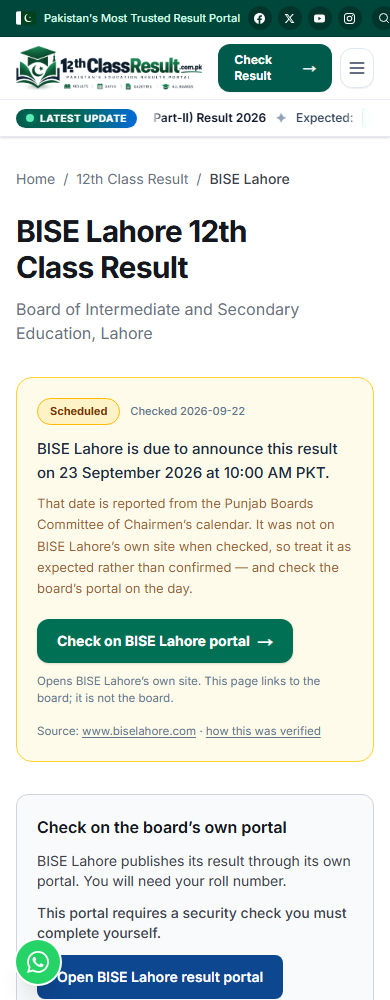
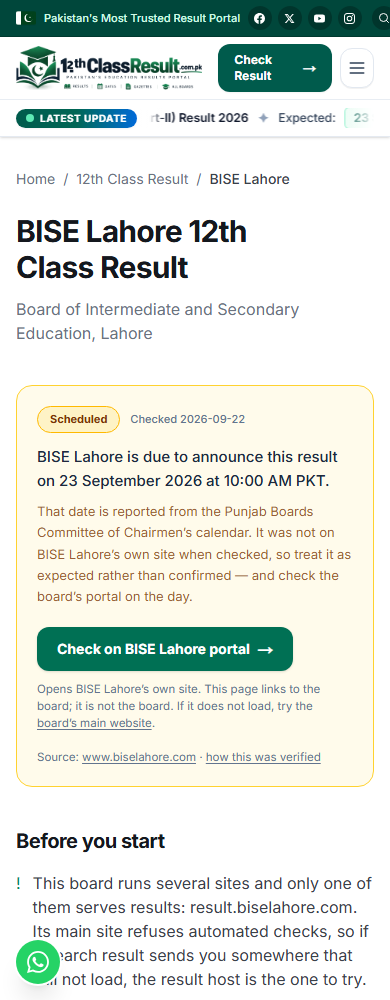
Result day: five Punjab boards announced, four still unconfirmed
The 10:00 schedule ran out and the site was still saying "is due to
announce at 10:00 AM" an hour and a half later.

Checked each board's own portal. Five are serving the session and are now
recorded as announced, each quoting what its own page says:

  Gujranwala   HSSC Part-II (12th Class) — 1st Annual Examination 2026
  Bahawalpur   HIGHER SECONDARY SCHOOL (FIRST ANNUAL) EXAMINATION, 2026
  Rawalpindi   RESULT OF HSSC FIRST ANNUAL EXAMINATION, 2026
  Multan       Part-II / Combined Results — 1st Annual 2026
  DG Khan      Part-II & Combined — 1st Annual Examination 2026

Rawalpindi is recorded with its redirect: results.biserawalpindi.edu.pk
answers 302 to biserwp.edu.pk, and the result URL points where the result
actually is.

`announcedAt` stays null on all five. The committee calendar said 10:00 and
the portals were live when checked at 11:30, but no board published a time
of its own, and copying the calendar's time into a per-board record would
turn a schedule into a board statement.

Lahore, Faisalabad, Sargodha and Sahiwal are not confirmed either way.
Lahore's result host could not be found from its own site and guessing at
one is not verification.

THE CLOCK STILL ANNOUNCES NOTHING. Those four could not stay reading "is
due at 10:00 AM" at half past eleven, and flipping them to announced
because the time arrived would have been worse -- this site asserting what
no board had said. A schedule whose time has passed now says exactly that:
[…]

diff --git a/lib/board/result-status.ts b/lib/board/result-status.ts
@@ -122,17 +122,132 @@ function punjab(
 export const BOARD_RESULT_STATUS: BoardResultStatus[] = [
   // ---- Punjab: nine boards, one common calendar, none declared yet --------
   punjab('bise-lahore', 'https://www.biselahore.com/', 'https://result.biselahore.com/'),
-  punjab('bise-gujranwala', 'https://bisegrw.edu.pk/', 'https://result.bisegrw.edu.pk/Index.php'),
+  {
+    boardId: 'bise-gujranwala',
+    class: 12,
+    year: 2026,
+    session: 'annual-1',
+    announcementStatus: 'announced',
+    /*
+     * `announcedAt` stays null. The committee calendar said 10:00 AM and the
+     * portals were serving the session when checked at 11:30 — but no board
+     * published a time of its own, and copying the calendar’s time into a
+     * per-board record would turn a schedule into a board statement.
+     */
+    dateConfidence: 'official',
+    announcedAt: null,
+    scheduledAt: null,
+    officialHomeUrl: 'https://bisegrw.edu.pk/',
+    officialResultUrl: 'https://result.bisegrw.edu.pk/Index.php',
+    portalSessionObserved: 'HSSC Part-II (12th Class) — 1st Annual Examination 2026',
+    captcha: 'required',
+    nameSearch: 'unverified',
+    lookupMode: 'official-link',
+    sources: ['https://result.bisegrw.edu.pk/Index.php'],
+    lastVerifiedAt: '2026-09-23',
+  },
   punjab(
     'bise-faisalabad',
     'https://www.bisefsd.edu.pk/',
     'https://www.bisefsd.edu.pk/InterResults.aspx',
   ),
-  punjab('bise-multan', 'https://web.bisemultan.edu.pk/', 'https://results.bisemultan.edu.pk/'),
-  punjab('bise-rawalpindi', 'https://www.biserawalpindi.edu.pk/'),
+  {
+    boardId: 'bise-multan',
+    class: 12,
+    year: 2026,
+    session: 'annual-1',
+    announcementStatus: 'announced',
+    /*
+     * `announcedAt` stays null. The committee calendar said 10:00 AM and the
+     * portals were serving the session when checked at 11:30 — but no board
+     * published a time of its own, and copying the calendar’s time into a
+     * per-board record would turn a schedule into a board statement.
+     */
+    dateConfidence: 'official',
+    announcedAt: null,
+    scheduledAt: null,
+    officialHomeUrl: 'https://web.bisemultan.edu.pk/',
+    officialResultUrl: 'https://results.bisemultan.edu.pk/',
+    portalSessionObserved: 'Part-II / Combined Results — 1st Annual 2026',
+    captcha: 'unverified',
+    nameSearch: 'unverified',
+    lookupMode: 'official-link',
+    sources: ['https://results.bisemultan.edu.pk/'],
+    lastVerifiedAt: '2026-09-23',
+  },
+  {
+    boardId: 'bise-rawalpindi',
+    class: 12,
+    year: 2026,
+    session: 'annual-1',
+    announcementStatus: 'announced',
+    /*
+     * `announcedAt` stays null. The committee calendar said 10:00 AM and the
+     * portals were serving the session when checked at 11:30 — but no board
+     * published a time of its own, and copying the calendar’s time into a
+     * per-board record would turn a schedule into a board statement.
+     */
+    dateConfidence: 'official',
+    announcedAt: null,
+    scheduledAt: null,
+    officialHomeUrl: 'https://www.biserawalpindi.edu.pk/',
+    officialResultUrl: 'https://biserwp.edu.pk/',
+    portalSessionObserved: 'RESULT OF HSSC FIRST ANNUAL EXAMINATION, 2026',
+    captcha: 'unverified',
+    nameSearch: 'unverified',
+    lookupMode: 'official-link',
+    sources: ['https://www.biserawalpindi.edu.pk/', 'https://biserwp.edu.pk/'],
+    lastVerifiedAt: '2026-09-23',
+  },
   punjab('bise-sargodha', 'https://bisesargodha.edu.pk/', 'https://results.bisesargodha.edu.pk/'),
-  punjab('bise-bahawalpur', 'https://bisebwp.edu.pk/'),
-  punjab('bise-dg-khan', 'https://www.bisedgkhan.edu.pk/'),
+  {
+    boardId: 'bise-bahawalpur',
+    class: 12,
+    year: 2026,
+    session: 'annual-1',
+    announcementStatus: 'announced',
+    /*
+     * `announcedAt` stays null. The committee calendar said 10:00 AM and the
+     * portals were serving the session when checked at 11:30 — but no board
+     * published a time of its own, and copying the calendar’s time into a
+     * per-board record would turn a schedule into a board statement.
+     */
+    dateConfidence: 'official',
+    announcedAt: null,
+    scheduledAt: null,
+    officialHomeUrl: 'https://bisebwp.edu.pk/',
+    officialResultUrl: 'https://bisebwp.edu.pk/',
+    portalSessionObserved: 'HIGHER SECONDARY SCHOOL (FIRST ANNUAL) EXAMINATION, 2026',
+    captcha: 'required',
+    nameSearch: 'unverified',
+    lookupMode: 'official-link',
+    sources: ['https://bisebwp.edu.pk/'],
+    lastVerifiedAt: '2026-09-23',
+  },
+  {
+    boardId: 'bise-dg-khan',
+    class: 12,
+    year: 2026,
+    session: 'annual-1',
+    announcementStatus: 'announced',
+    /*
+     * `announcedAt` stays null. The committee calendar said 10:00 AM and the
+     * portals were serving the session when checked at 11:30 — but no board
+     * published a time of its own, and copying the calendar’s time into a
+     * per-board record would turn a schedule into a board statement.
+     */
+    dateConfidence: 'official',
+    announcedAt: null,
+    scheduledAt: null,
+    officialHomeUrl: 'https://www.bisedgkhan.edu.pk/',
+    officialResultUrl: 'https://www.bisedgkhan.edu.pk/',
+    portalSessionObserved: 'Part-II & Combined — 1st Annual Examination 2026',
+    captcha: 'unverified',
+    nameSearch: 'unverified',
+    lookupMode: 'official-link',
+    sources: ['https://www.bisedgkhan.edu.pk/'],
+    lastVerifiedAt: '2026-09-23',
+  },
   punjab('bise-sahiwal', 'https://bisesahiwal.edu.pk/', 'https://bisesahiwal.edu.pk/result.php'),
 
   // ---- KPK: already out, and NOT on one shared date ----------------------

diff --git a/components/result/board-status-hero.tsx b/components/result/board-status-hero.tsx
@@ -78,6 +78,22 @@ export function BoardStatusHero({ board }: { board: Board }) {
   const announced = status.announcementStatus === 'announced'
   const scheduled = status.announcementStatus === 'scheduled'
 
+  /*
+   * THE CLOCK ANNOUNCES NOTHING, and this is where that rule earns its keep.
+   *
+   * At 10:00 on 23 September the Punjab schedule ran out. Five boards had
+   * their portals serving the session within the hour; four had not been
+   * confirmed either way. Leaving those four reading "is due to announce at
+   * 10:00 AM" at half past eleven is plainly wrong, and flipping them to
+   * "announced" because the time arrived would be worse — it would be this
+   * site asserting something no board had said.
+   *
+   * So a passed schedule says exactly that: the time has gone, we have not
+   * confirmed it, go and look at the board's own portal.
+   */
+  const scheduleHasPassed =
+    scheduled && status.scheduledAt !== null && new Date(status.scheduledAt) <= new Date()
+
   const tone = announced
     ? 'border-emerald-300 bg-emerald-50'
     : scheduled
@@ -86,9 +102,11 @@ export function BoardStatusHero({ board }: { board: Board }) {
 
   const pill = announced
     ? { text: 'Result announced', cls: 'border-emerald-400 bg-emerald-100 text-emerald-900' }
-    : scheduled
-      ? { text: 'Scheduled', cls: 'border-amber-400 bg-amber-100 text-amber-900' }
-      : { text: 'Not confirmed', cls: 'border-slate-300 bg-slate-100 text-slate-700' }
+    : scheduleHasPassed
+      ? { text: 'Due now — not yet confirmed', cls: 'border-amber-400 bg-amber-100 text-amber-900' }
+      : scheduled
+        ? { text: 'Scheduled', cls: 'border-amber-400 bg-amber-100 text-amber-900' }
+        : { text: 'Not confirmed', cls: 'border-slate-300 bg-slate-100 text-slate-700' }
 
   /*
    * The headline sentence. Written per state rather than templated, because
@@ -99,9 +117,11 @@ export function BoardStatusHero({ board }: { board: Board }) {
     ? status.announcedAt
       ? `${board.shortName} announced this result on ${formatPkt(status.announcedAt)}. It is available now on the board’s own portal.`
       : `${board.shortName} has announced this result. It is available now on the board’s own portal.`
-    : scheduled && status.scheduledAt
-      ? `${board.shortName} is due to announce this result on ${formatPkt(status.scheduledAt)}.`
-      : `Nothing has been published by ${board.shortName} that confirms this result either way.`
+    : scheduleHasPassed && status.scheduledAt
+      ? `${board.shortName} was due to announce this result on ${formatPkt(status.scheduledAt)}. That time has passed and the board has not been confirmed here since — open its portal below, which is where it appears first.`
+      : scheduled && status.scheduledAt
+        ? `${board.shortName} is due to announce this result on ${formatPkt(status.scheduledAt)}.`
+        : `Nothing has been published by ${board.shortName} that confirms this result either way.`
 
   return (
     <div className={`rounded-2xl border p-5 sm:p-6 ${tone}`}>
@@ -124,7 +144,7 @@ export function BoardStatusHero({ board }: { board: Board }) {
         of the committee calendar; the boards had published nothing when this
         was checked.
       */}
-      {scheduled && status.dateConfidence === 'reported' ? (
+      {scheduled && !scheduleHasPassed && status.dateConfidence === 'reported' ? (
         <p className="mt-2 text-[13px] leading-relaxed text-amber-900/80">
           That date is reported from the Punjab Boards Committee of Chairmen’s calendar. It was not
           on {board.shortName}’s own site when checked, so treat it as expected rather than
